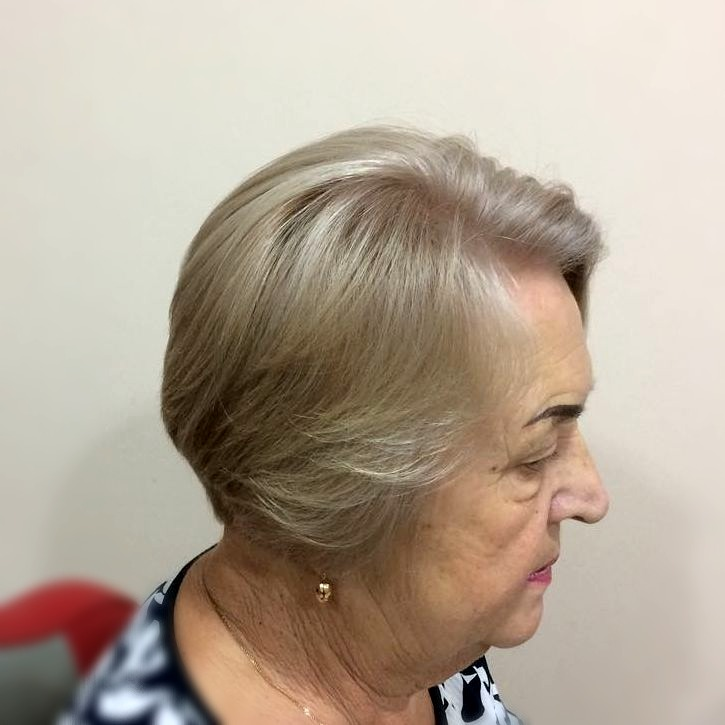
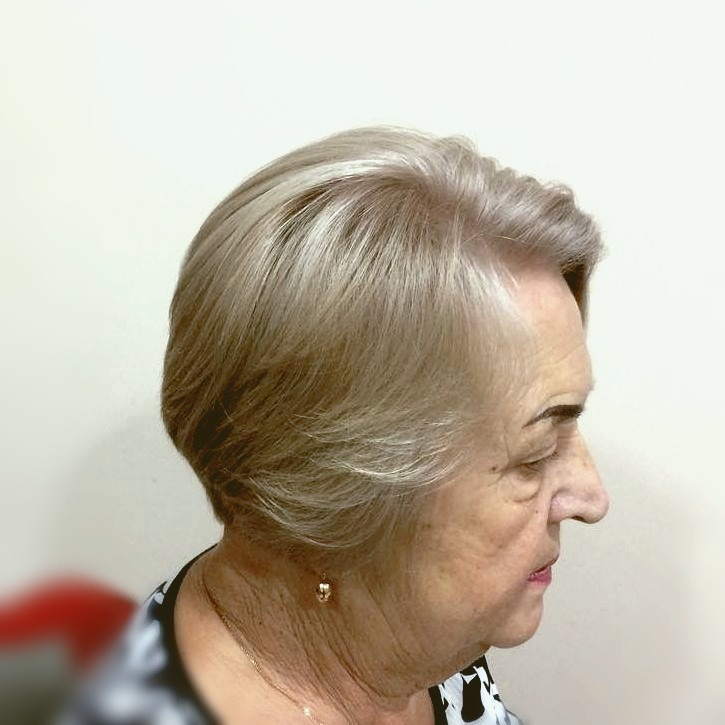
Поправил галпфайл, команда билд больше не пропускает папку аджакс-контента. Добавил разметку hCard. Допилил фильтром фото бабули.

diff --git a/app/index.html b/app/index.html
@@ -114,9 +114,9 @@
 								<div class="carousel-logo"><img src="img/logo2.png" alt="Солярий - салон красоты Афродита"></div>
 								<h3 class="h3">Солярий</h3>
 								<ul class="carousel-list">
-									<li>Ключевая услуга #1 - <b>2500</b> <i>₽</i></li>
-									<li>Ключевая услуга #2 - <b>2500</b> <i>₽</i></li>
-									<li>Ключевая услуга #3 - <b>2500</b> <i>₽</i></li>
+									<li>1 минута - <b>20</b> <i>₽</i></li>
+									<li>Абонемент "60 мин" - <b>1020</b> <i>₽</i></li>
+									<li>Крем в ассортименте - <b>от 130</b> <i>₽</i></li>
 								</ul>
 								<a href="ajax-content/solarium.html" class="ajax-popup-link button button-white">Полный прайс</a>
 							</div>
@@ -130,10 +130,10 @@
 								<div class="carousel-logo"><img src="img/logo2.png" alt="Стрижки женские - салон красоты Афродита"></div>
 								<h3 class="h3">Стрижки женские</h3>
 								<ul class="carousel-list">
-									<li>Ключевая услуга #1 - <b>2500</b> <i>₽</i></li>
-									<li>Ключевая услуга #2 - <b>2500</b> <i>₽</i></li>
-									<li>Ключевая услуга #3 - <b>2500</b> <i>₽</i></li>
-									<li>Ключевая услуга #3 - <b>2500</b> <i>₽</i></li>
+									<li>Стрижка - <b>от 700</b> <i>₽</i></li>
+									<li>Тонирование - <b>от 800</b> <i>₽</i></li>
+									<li>Окрашивание - <b>от 800</b> <i>₽</i></li>
+									<li>Мелирование - <b>от 1000</b> <i>₽</i></li>
 								</ul>
 								<a href="ajax-content/woman.html" class="ajax-popup-link button button-white">Полный прайс</a>
 							</div>
@@ -147,10 +147,10 @@
 								<div class="carousel-logo"><img src="img/logo2.png" alt="Стрижки мужские - салон красоты Афродита"></div>
 								<h3 class="h3">Стрижки мужские</h3>
 								<ul class="carousel-list">
-									<li>Ключевая услуга #1 - <b>2500</b> <i>₽</i></li>
-									<li>Ключевая услуга #2 - <b>2500</b> <i>₽</i></li>
-									<li>Ключевая услуга #3 - <b>2500</b> <i>₽</i></li>
-									<li>Ключевая услуга #3 - <b>2500</b> <i>₽</i></li>
+									<li>Коррекция усов и бороды - <b>от 150</b> <i>₽</i></li>
+									<li>Стрижка под насадку - <b>от 300</b> <i>₽</i></li>
+									<li>Модельная стрижка - <b>от 450</b> <i>₽</i></li>
+									<li>Детская стрижка - <b>от 350</b> <i>₽</i></li>
 								</ul>
 								<a href="ajax-content/man.html" class="ajax-popup-link button button-white">Полный прайс</a>
 							</div>
@@ -164,9 +164,10 @@
 								<div class="carousel-logo"><img src="img/logo2.png" alt="Татуаж макияж - салон красоты Афродита"></div>
 								<h3 class="h3">Косметология / макияж / татуаж</h3>
 								<ul class="carousel-list">
-									<li>Ключевая услуга #1 - <b>2500</b> <i>₽</i></li>
-									<li>Ключевая услуга #2 - <b>2500</b> <i>₽</i></li>
-									<li>Ключевая услуга #3 - <b>2500</b> <i>₽</i></li>
+									<li>Коктейльный макияж - <b>от 1200</b> <i>₽</i></li>
+									<li>Коррекция бровей - <b>от 250</b> <i>₽</i></li>
+									<li>Татуаж глаз - <b>от 5000</b> <i>₽</i></li>
+									<li>Татуаж губ - <b>от 5500</b> <i>₽</i></li>
 								</ul>
 								<a href="ajax-content/tattoo-makeup.html" class="ajax-popup-link button button-white">Полный прайс</a>
 							</div>
@@ -180,9 +181,10 @@
 								<div class="carousel-logo"><img src="img/logo2.png" alt="Маникюр педикюр - салон красоты Афродита"></div>
 								<h3 class="h3">Маникюр / педикюр</h3>
 								<ul class="carousel-list">
-									<li>Ключевая услуга #1 - <b>2500</b> <i>₽</i></li>
-									<li>Ключевая услуга #2 - <b>2500</b> <i>₽</i></li>
-									<li>Ключевая услуга #3 - <b>2500</b> <i>₽</i></li>
+									<li>Классический педикюр - <b>от 1000</b> <i>₽</i></li>
+									<li>Классический маникюр - <b>от 500</b> <i>₽</i></li>
+									<li>Френч-покрытие (лак) - <b>от 250</b> <i>₽</i></li>
+									<li>Покрытие "Shellac" - <b>от 1000</b> <i>₽</i></li>
 								</ul>
 								<a href="ajax-content/manikur-pedikur.html" class="ajax-popup-link button button-white">Полный прайс</a>
 							</div>
@@ -196,9 +198,9 @@
 								<div class="carousel-logo"><img src="img/logo2.png" alt="Стрижки для пенсионеров - салон красоты Афродита"></div>
 								<h3 class="h3">Стрижки для пенсионеров</h3>
 								<ul class="carousel-list">
-									<li>Ключевая услуга #1 - <b>250</b> <i>₽</i></li>
-									<li>Ключевая услуга #2 - <b>250</b> <i>₽</i></li>
-									<li>Ключевая услуга #3 - <b>250</b> <i>₽</i></li>
+									<li>Женская стрижка - <b>от 250</b> <i>₽</i></li>
+									<li>Мужская стрижка - <b>от 250</b> <i>₽</i></li>
+									<li>Сушка - <b>от 50</b> <i>₽</i></li>
 								</ul>
 								<a href="ajax-content/old.html" class="ajax-popup-link button button-white">Полный прайс</a>
 							</div>
@@ -262,7 +264,7 @@
 									<option>Солярий</option>
 								</select>
 								<div class="private-policy-link">
-									<label><input type="checkbox" required> Я ознакомлен(а) с <a href="private-policy.html" class="ajax-popup-link">Политикой конфиденциальности</a> и соглашаюсь с её условиями</label>
+									<label><input type="checkbox" required> Я ознакомлен(а) с <a href="ajax-content/private-policy.html" class="ajax-popup-link">Политикой конфиденциальности</a> и соглашаюсь с её условиями</label>
 								</div>
 								<button class="button button-white">Отправить</button>								
 							</form>
@@ -411,6 +413,26 @@
 					</div>
 					<div class="col-lg-4 col-sm-12">
 						<div class="footer-column">
+							<!-- hCard -->
+							<div class="hcard">
+								<div class="vcard">
+									<div>
+										<span class="category">Салон красоты</span>
+										<span class="fn org">Афродита</span>
+									</div>
+									<div class="adr">
+										<span class="locality">Щёлковский район, пос. Загорянский</span>,
+										<span class="street-address">ул. Орджоникидзе, д. 46А</span>
+									</div>
+									<div><span class="tel">+79060455683</span></div>
+									<div><span class="workhours">ежедневно с 10:00 до 20:00</span>
+										<span class="url">
+											<span class="value-title" title="https://афродита-ск.рф"> </span>
+										</span>
+									</div>
+								</div>
+							</div>
+							<!-- /hCard -->
 							<div class="map">
 								<script type="text/javascript" charset="utf-8" async src="https://api-maps.yandex.ru/services/constructor/1.0/js/?um=constructor%3A8caf3383c914286c5ce8ec8b6941f3d61ae0905f018f0d25dadaf8804de9ca8b&amp;width=100%25&amp;height=240&amp;lang=ru_RU&amp;scroll=true"></script>
 							</div>
@@ -421,7 +443,7 @@
 			</div>
 		</footer>
 	</div>
-	
+
 	<!-- button to up -->
 	<div class="top-up" title="Наверх">
 		<i class="fa fa-angle-double-up"></i>
@@ -429,7 +451,7 @@
 	<!-- / button to up -->
 	
 
-		<script src="js/scripts.min.js"></script>
+	<script src="js/scripts.min.js"></script>
 
-	</body>
-	</html>
+</body>
+</html>

diff --git a/app/sass/main.sass b/app/sass/main.sass
@@ -6,6 +6,7 @@
 	-webkit-box-sizing: border-box
 	-moz-box-sizing: border-box
 	box-sizing: border-box
+	outline: none
 	&:before, &:after
 		-webkit-box-sizing: border-box
 		-moz-box-sizing: border-box
@@ -737,10 +738,12 @@ footer.main-footer
 	&:hover, &:focus
 		opacity: 1
 				
-.develop-site, .develop-site>a
-	text-align: right
+.develop-site, 
 	font-size: 12px
 	color: #666
+	>a
+		color: #666
+		text-decoration: underline 
 
 .top-up
 	position: fixed
@@ -814,6 +817,18 @@ footer.main-footer
 	max-width: 700px
 	margin: auto
 	font-size: 14px
+
+.hcard
+	position: absolute
+	padding: 0
+	margin: 0
+	background-color: inherit
+	color: lighten($dark, 5%)
+	font-size: 8px
+	text-align: center
+	*
+		display: inline
+
 
 			
 

diff --git a/gulpfile.js b/gulpfile.js
@@ -80,8 +80,12 @@ gulp.task('build', ['removedist', 'imagemin', 'sass', 'js'], function() {
 	var buildFiles = gulp.src([
 		'app/*.html',
 		'app/.htaccess',
-		'app/mail.php',
+		'app/*.php',
 		]).pipe(gulp.dest('dist'));
+
+	var buildAjaxContent = gulp.src([
+		'app/ajax-content/*.html'
+		]).pipe(gulp.dest('dist/ajax-content'));
 
 	var buildCss = gulp.src([
 		'app/css/main.min.css',
